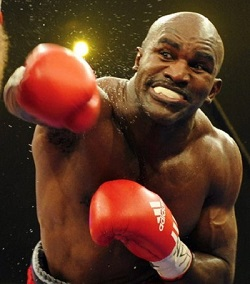
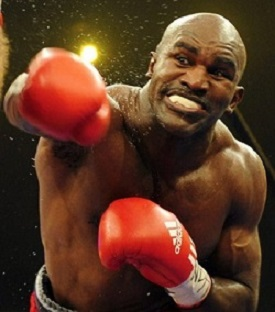
resized some of the images

diff --git a/assets/javascript/app.js b/assets/javascript/app.js
@@ -1,5 +1,5 @@
 $(document).ready(function () {
-    
+
     // This variable will hold an array of questions, options, answers, and images for the game.
     let gameQA = [
         {
@@ -45,7 +45,7 @@ $(document).ready(function () {
             image: "./assets/images/marthasvineyard.png"
         }, 
         {
-            question: "See ya!” is the iconic home run call of what baseball announcer?", 
+            question: "'See ya!' is the iconic home run call of what baseball announcer?", 
             options: ["Joe Buck", "Bob Uecker", "Michael Kay", "Rod Allen" ],
             answer: 2,
             image: "./assets/images/michaelkay.jpg"
@@ -139,8 +139,9 @@ $(document).ready(function () {
             let userPick = $("<div>");
             userPick.addClass("answerOptions");
             userPick.html(choose.options[i]);
+
     //assign array position to it so can check answer
-    userPick.attr("data-guessvalue", i);
+    userPick.attr("data-pickvalue", i);
     $("#answer").append(userPick);
     }
       
@@ -148,7 +149,7 @@ $(document).ready(function () {
     //click function to select answer and outcomes
     $(".answerOptions").on("click", function () {
         //grab array position from userChoice
-        userChoice = parseInt($(this).attr("data-guessvalue"));
+        userChoice = parseInt($(this).attr("data-pickvalue"));
     
         //correct guess or wrong guess outcomes
         if (userChoice === choose.answer) {
